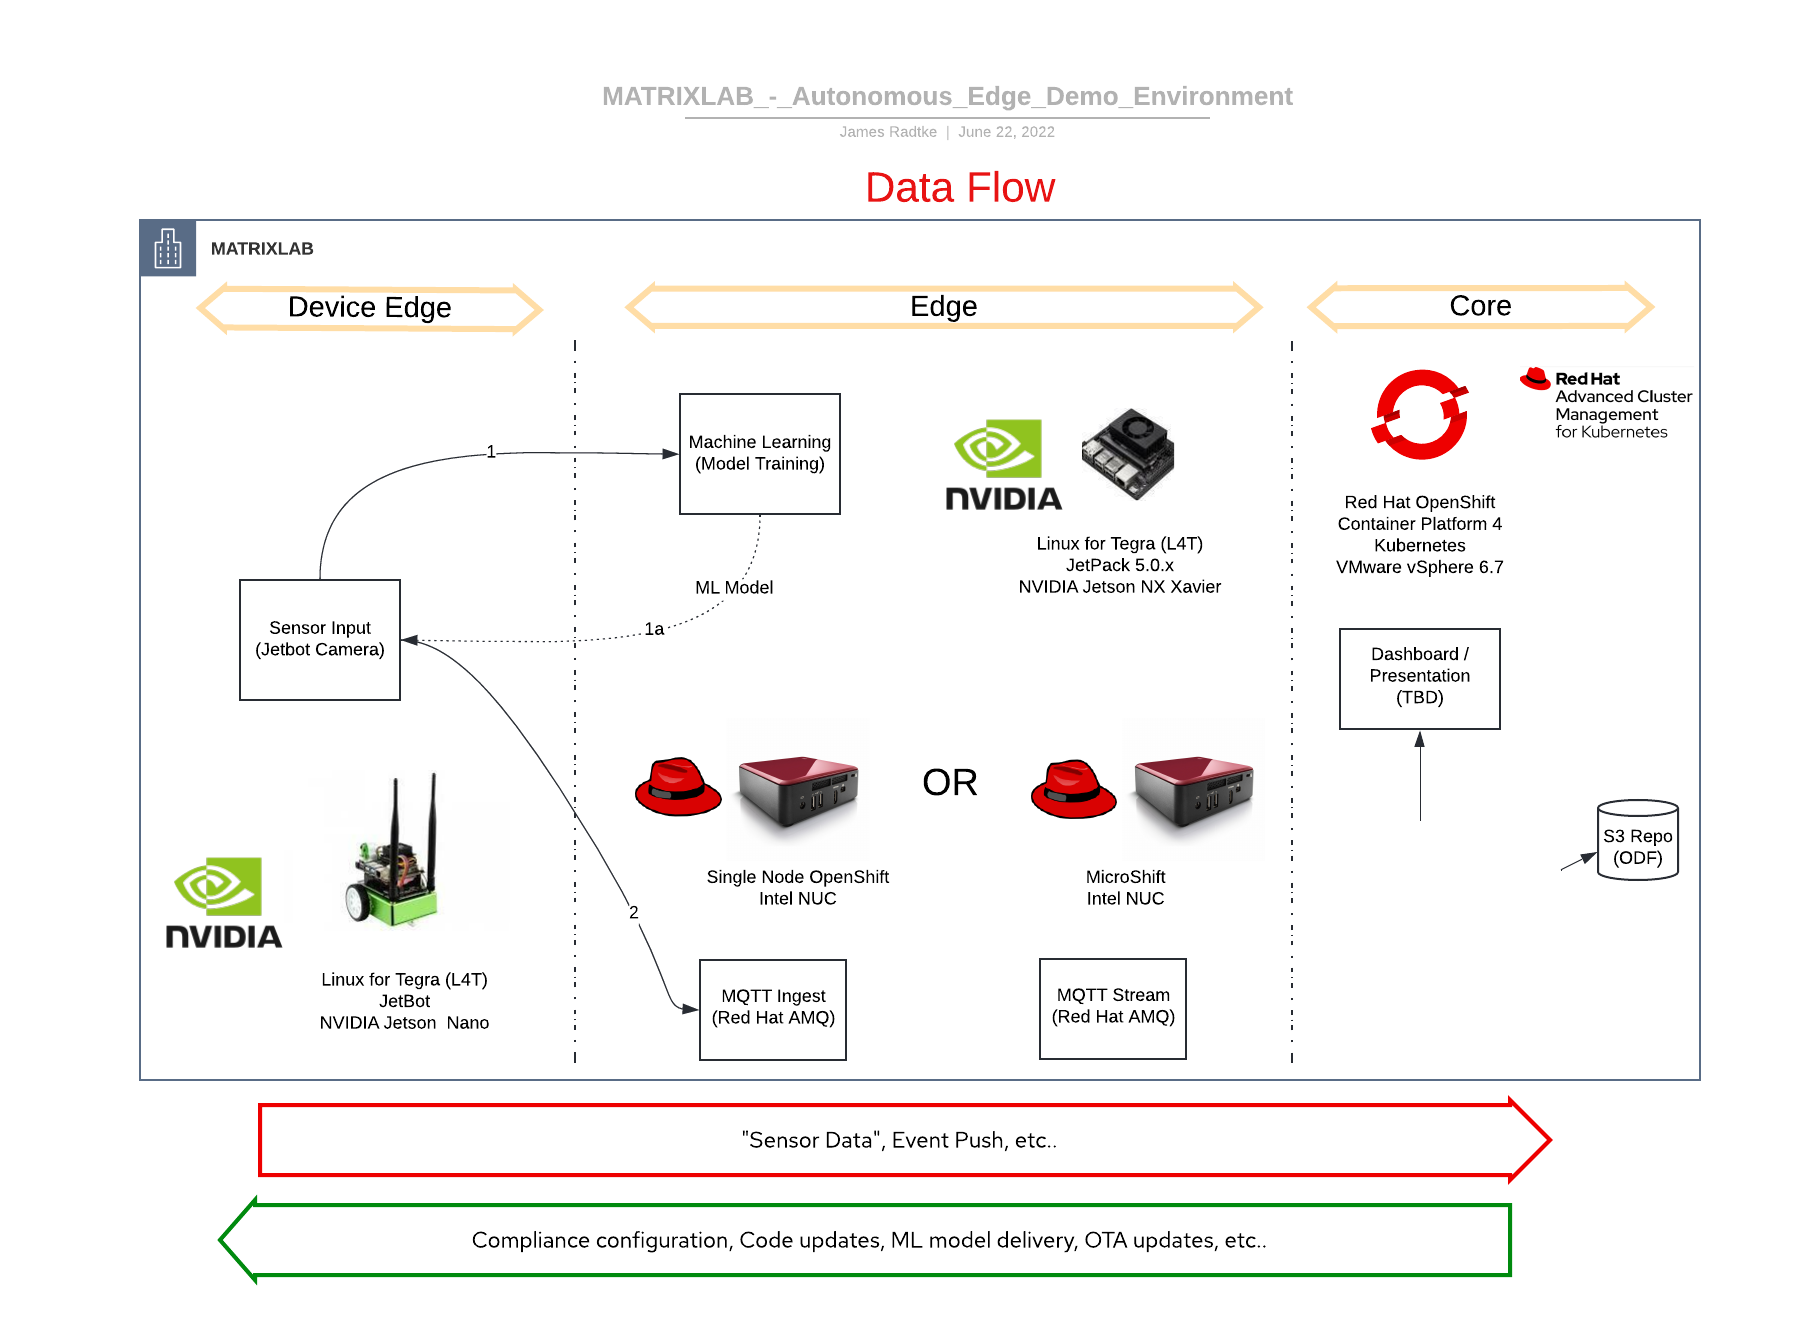
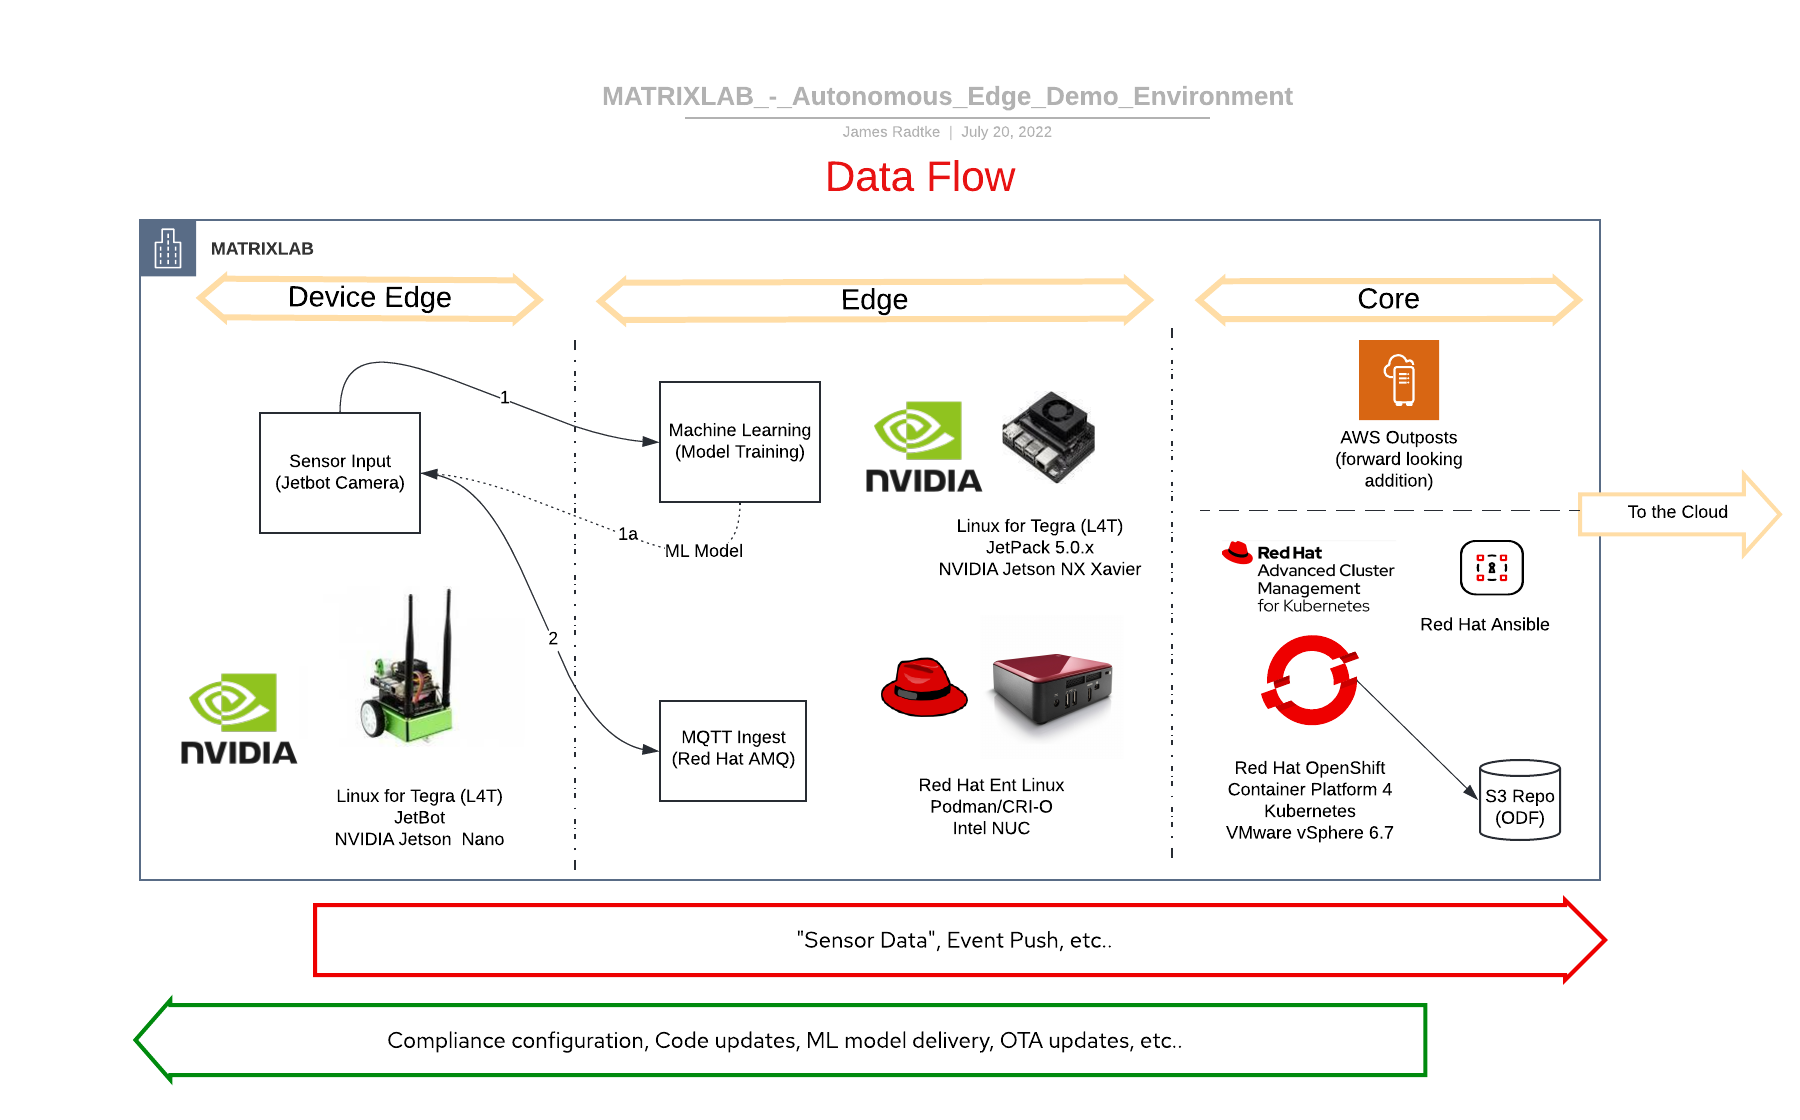
Many updates and new files

diff --git a/README.md b/README.md
@@ -1,21 +1,23 @@
 # jetsons.lab
 
+NVIDIA Jetson Lab Environment - exploring Autonomous Device Edge Compute with Edge Middleware queing and processing, and downstream dashboard presentation with additional processing in the Data Center.  At a later phase (Q4 2022) public cloud (AWS) will be added for additional analytics and machine learning, reporting, executivte dashboards, etc..
+
 ## Overview
-First/foremost this lab is an entirely fictitous use-case and scenario.  It is "Data Science" project with an emphasis on Data Engineering.
+First/foremost this lab is an entirely fictitous use-case and scenario.  It is a "Data Science" project with an emphasis on Data Engineering, that will integrate MLOps.
 
-NVIDIA Jetson Lab Environment - exploring Device Edge Autonomous Compute with Edge Middleware Queing and Processing, and downstream Dashboard Presentation with additional processing in the Data Center.
-
-STATUS:  This is very much still a work in progress and subject to change... lots of change.
+## Status  
+| Timeline | Status Overview |
+|:---------|:----------------|
+| Q3-2022  | This is very much still a work in progress |
+| Q2-2022  | Initial Draft <BR> Researching hardware platforms and compute options |
 
 ## The Challenge 
-There is a need to have an app deployed at "the edge" to run our autonomous devices.  
+Short version: a manufacturer needs to have an app deployed at "the edge" to run autonomous devices.  
 
-The manufacturing floor has many "manual" or "human-driven" aspects.  There is need/want to modernize and migrate from proprietary and slow-changing software implementation, to utilize more commodity off the shelf (COTS) hardware and Open Source Software (OSS).  
-
-A significant/looming challenge: to deploy an autonomous device to our manufacturing floor.  This device needs to be self-sustained and have the ability to be updated (and somewhat frequently), with minimal interruption.  We also need to modernize our Software Development Life Cycle (SDLC), using a secure pipeline.  We feel that once we have worked on this issue, we will be poised to address other challenges in a simliar way.
+The manufacturing floor has many "manual" or "human-driven" aspects, even when autonomous systems are involved.  There is need/want to modernize and migrate from proprietary and slow-changing software implementation, to utilize more commodity off the shelf (COTS) hardware and Open Source Software (OSS) and modern Software Development Methodologies.  We feel that once we have worked on this issue, we will be poised to address other challenges in a simliar way.
 
 ## Technical Objective 
-Deploy "Kubernetes" of some sort on small form factor devices to accommodate a typical manufacturing environment.  (Since I don't have an Industrial Manufacturing Facility nor remote Cell Towers handy, I have devised a representative mockup.)
+Deploy a ["Container-based workload"](https://cloud.google.com/learn/what-are-containers) of some sort on small form factor devices to resemble a typical manufacturing environment.  (Since I don't have an Industrial Manufacturing Facility nor remote Cell Towers handy, I have devised a representative mockup.)
 
 Starting with "the cloud", to the "Data Center" and moving towards the Edge:
 * Cloud (public)
@@ -33,10 +35,7 @@ Starting with "the cloud", to the "Data Center" and moving towards the Edge:
 * Device Edge
   * NVIDIA Jetson - Waveshare Jetbot Software
 
-**NOTE:** 
-
-I have not found a definitive guide regarding "edge nomenclature" and where in the spectrum devices exist.  As such, I am using the definitions my coworkers have adopted currently (2022 Spring).  While I don't think it is important to actually know the definitions, it does help explain my Demo Environment.
-
+### Functions/Tools/Services
 This solution will provide DevSecGitOps: (reword this <<< )
 
 | Function                           | Product (proposed)
@@ -91,7 +90,6 @@ NVIDIA created an environment to process APS data - and I am (sort of) attemptin
 ![NVIDIA PtychoNN Model Workflow](images/train-PtychoNN-768x523.png)  
 Credit: https://developer.nvidia.com/blog/facing-the-edge-data-challenge-with-hpc-ai/
 
-
 ## Demo
 Status:  In Progress
 
@@ -136,6 +134,8 @@ There's little/no point in my explaining how to make your Jetson bootable, as it
 ## Notes
 [Fog Computing](https://en.wikipedia.org/wiki/Fog_computing) was a consideration for this, but there is not much to differentiate my workloads for this Demo Environment - in particular, since most of this Demo is "emulating" something else to begin with.  I believe in a more "real world" implementation of something like this Fog would be much more relevant.
 
+I have not found a definitive guide regarding "edge nomenclature" and where in the spectrum devices exist.  As such, I am using the definitions my coworkers have adopted currently (2022 Spring).  While I don't think it is important to actually know the definitions, it does help explain my Demo Environment.
+
 ## References and Credits
 Image (above) "Edge Computing Tiers and Red Hat" -- Luis Arizmendi, Principal Edge Computing Specialist Solution Architect (from: Red Hat Enterprise Linux for Edge - Technical Intro)
 
@@ -147,19 +147,9 @@ Image (above) "Edge Computing Tiers and Red Hat" -- Luis Arizmendi, Principal Ed
   
 [Red Hat OpenShift](https://www.redhat.com/en/technologies/cloud-computing/openshift)  
 [Red Hat OpenShift - Single Node OpenShift](https://docs.openshift.com/container-platform/4.10/installing/installing_sno/install-sno-preparing-to-install-sno.html)  
-[MicroShift](https://microshift.io/)  
 [Red Hat AMQ](https://www.redhat.com/en/technologies/jboss-middleware/amq)  
 [Apache Camel-K (Camel Kafka)](https://camel.apache.org/camel-k/1.9.x/index.html)  
 [Apache Kafka](https://kafka.apache.org/)  
 [Apache Kafka MirrorMaker](https://docs.confluent.io/4.0.0/multi-dc/mirrormaker.html)  
 [MQTT Protocol](https://en.wikipedia.org/wiki/MQTT)  
 
-### Random Bits
-
-<rant>
-I have found that the NVIDIA ecosystem, and then AI/ML ecosystem make things more difficult to get stuff done outside their specific/proprietary way of doing things.  (I.e. you can't simply decide you're going to run Fedora on the Jetbot.  Or if you install RHEL on the Jetson, you may not be able to take advantage of the GPU, or.. not easily, anyhow). 
-</rant>
-
-
-https://pytorch.org/get-started/locally/  
-[Jetson Stats](https://github.com/rbonghi/jetson_stats)

diff --git a/Random/README.md b/Random/README.md
@@ -1,0 +1,6 @@
+# README
+
+## Random Bits
+https://pytorch.org/get-started/locally/
+[Jetson Stats](https://github.com/rbonghi/jetson_stats)
+
